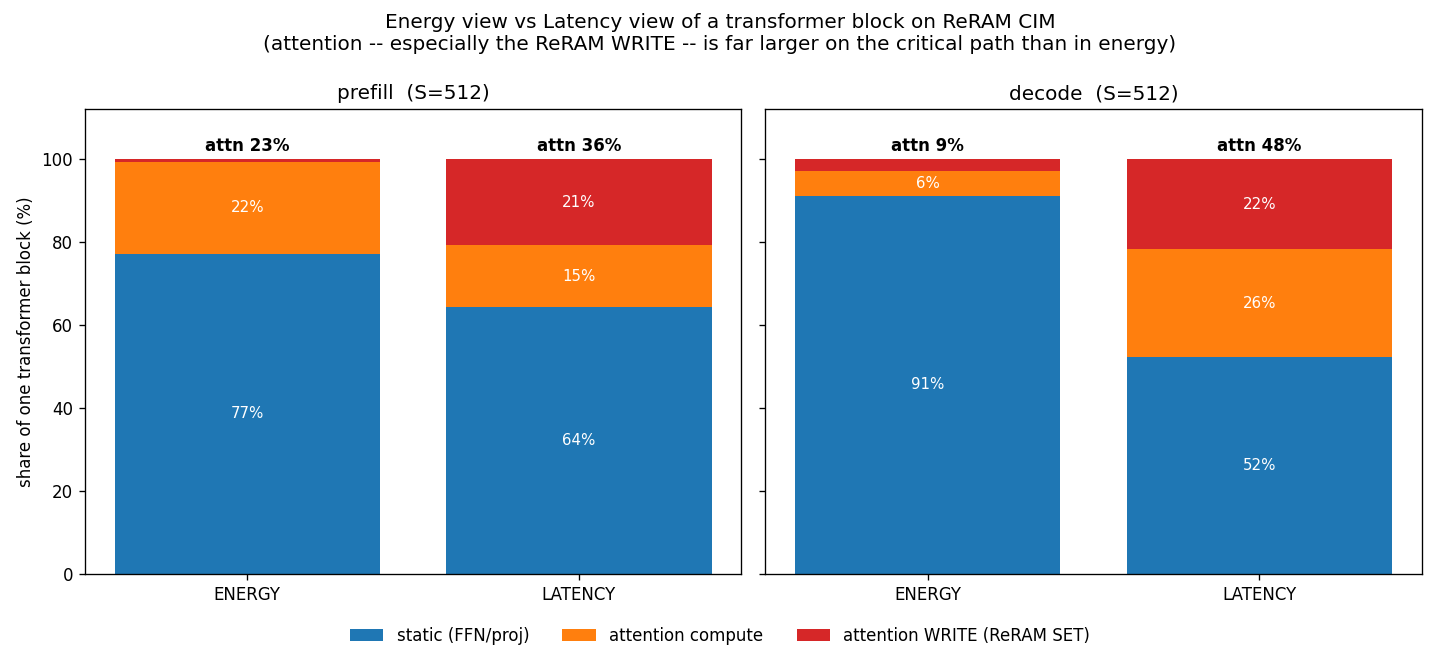
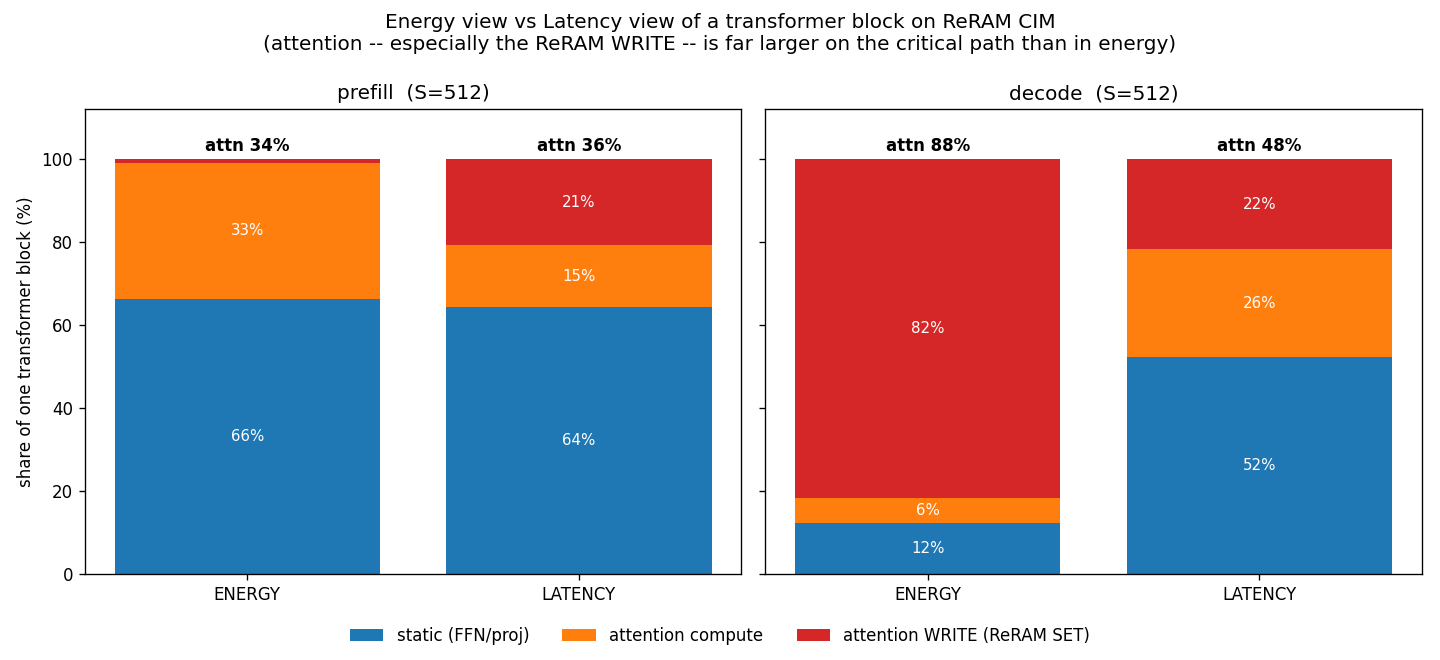
Refresh energy-vs-latency chart + §5 numbers for the resident model
The energy-vs-latency figure and SUMMARY §5 table were pre-residency: with weights
streamed from DRAM, static compute energy was inflated and attention looked tiny
(esp. decode 8.9%). Regenerated on the resident config — decode energy is now
attention-write-dominated (82%), matching the §6.2 system-level result.

diff --git a/workspace/analysis/SUMMARY.md b/workspace/analysis/SUMMARY.md
@@ -105,8 +105,10 @@ CiMLoop 能量**数值相关**:每层 `histograms` 决定 ReRAM 模拟电流/ADC
 
 | phase | attention 占比(能量) | attention 占比(延迟) | 写延迟占整块 |
 |---|---|---|---|
-| prefill S=512 | 22.8% | **35.6%** | 21% |
-| decode S=512 | 8.9% | **47.8%** | 22% |
+| prefill S=512 | 33.7% | **35.6%** | 21% |
+| decode S=512 | **87.8%** | 47.8% | 22% |
+
+> prefill 里 FFN/投影仍是最大单项(能量 66%)——S=512 下 transformer 本就 FFN-heavy,这正常;图要说明的是 attention 占比 + 红色写块。**decode 则相反:常驻后计算塌缩,attention K/V 写占能量 82%**,FFN 只剩 12%(与 §6.2 一致)。
 
 ---
 
